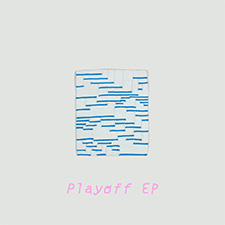
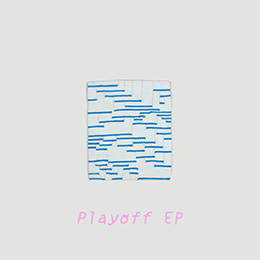
record page changes

diff --git a/records.html b/records.html
@@ -13,15 +13,36 @@
       </div>
       <div id="content">
         <div id="records">
-          <a href="records/RFT.html">
-            <img src="images/album-covers/reset-father-time_small.jpg" />
-          <a>
-          <a href="records/MWSS.html">
-            <img src="images/album-covers/MWSS_small.jpg" />
-          </a>
-          <a href="records/playoff.html">
-            <img src="images/album-covers/playoff_small.jpg" />
-          <a>
+          <div class="record">
+            <a href="records/playoff.html">
+              <img src="images/album-covers/playoff_small.jpg" />
+            </a>
+            <div class="record-text">
+              <div>LA003</div>
+              <div>Stevhen Peters</div>
+              <div><i>Playoff EP</i></div>
+            </div>
+          </div>
+          <div class="record">
+            <a href="records/MWSS.html">
+              <img src="images/album-covers/MWSS_small.jpg" />
+            </a>
+            <div class="record-text">
+              <div>LA002</div>
+              <div>Post Moves</div>
+              <div><i>Mystery World Science Show</i></div>
+            </div>
+          </div>
+          <div class="record">
+            <a href="records/RFT.html">
+              <img src="images/album-covers/reset-father-time_small.jpg" />
+            </a>
+            <div class="record-text">
+              <div>LA001</div>
+              <div>Post Moves</div>
+              <div><i>Reset Father Time</i></div>
+            </div>
+          </div>
         </div>
       </div>
     </div>

diff --git a/styles/styles.css b/styles/styles.css
@@ -13,7 +13,7 @@ body {
   width: 940px;
   box-sizing: border-box;
   margin: 0 auto 0 auto;
-  padding: 15 0;
+  padding: 1em 0;
 }
 
 a {
@@ -26,12 +26,6 @@ a {
   display: flex;
   flex-direction: row;
   margin: 0 185;
-  text-align: center;
-}
-
-#nav2 {
-  margin: 0 30 40;
-  padding: 0 5;
   text-align: center;
 }
 
@@ -64,19 +58,29 @@ a {
   display: flex;
   flex-direction: row;
   flex-wrap: wrap;
-  width: 750px;
 }
 
-#records a img {
+.record a img {
   border: 1px solid;
   border-color: ghostwhite;
   transition: all 0.5s;
-  height: 225px;
-  margin: 0 23 0 0;
+  height: 260px;
+  margin: 0 25px;
 }
 
-#records a img:hover {
+.record a img:hover {
   opacity: .85;
+}
+
+.record .record-text {
+  opacity: 0;
+  height: 25px;
+  margin: 0 25px 35px;
+  transition: all 0.5s;
+}
+
+.record:hover .record-text{
+  opacity: 1;
 }
 
 #art-frame {
